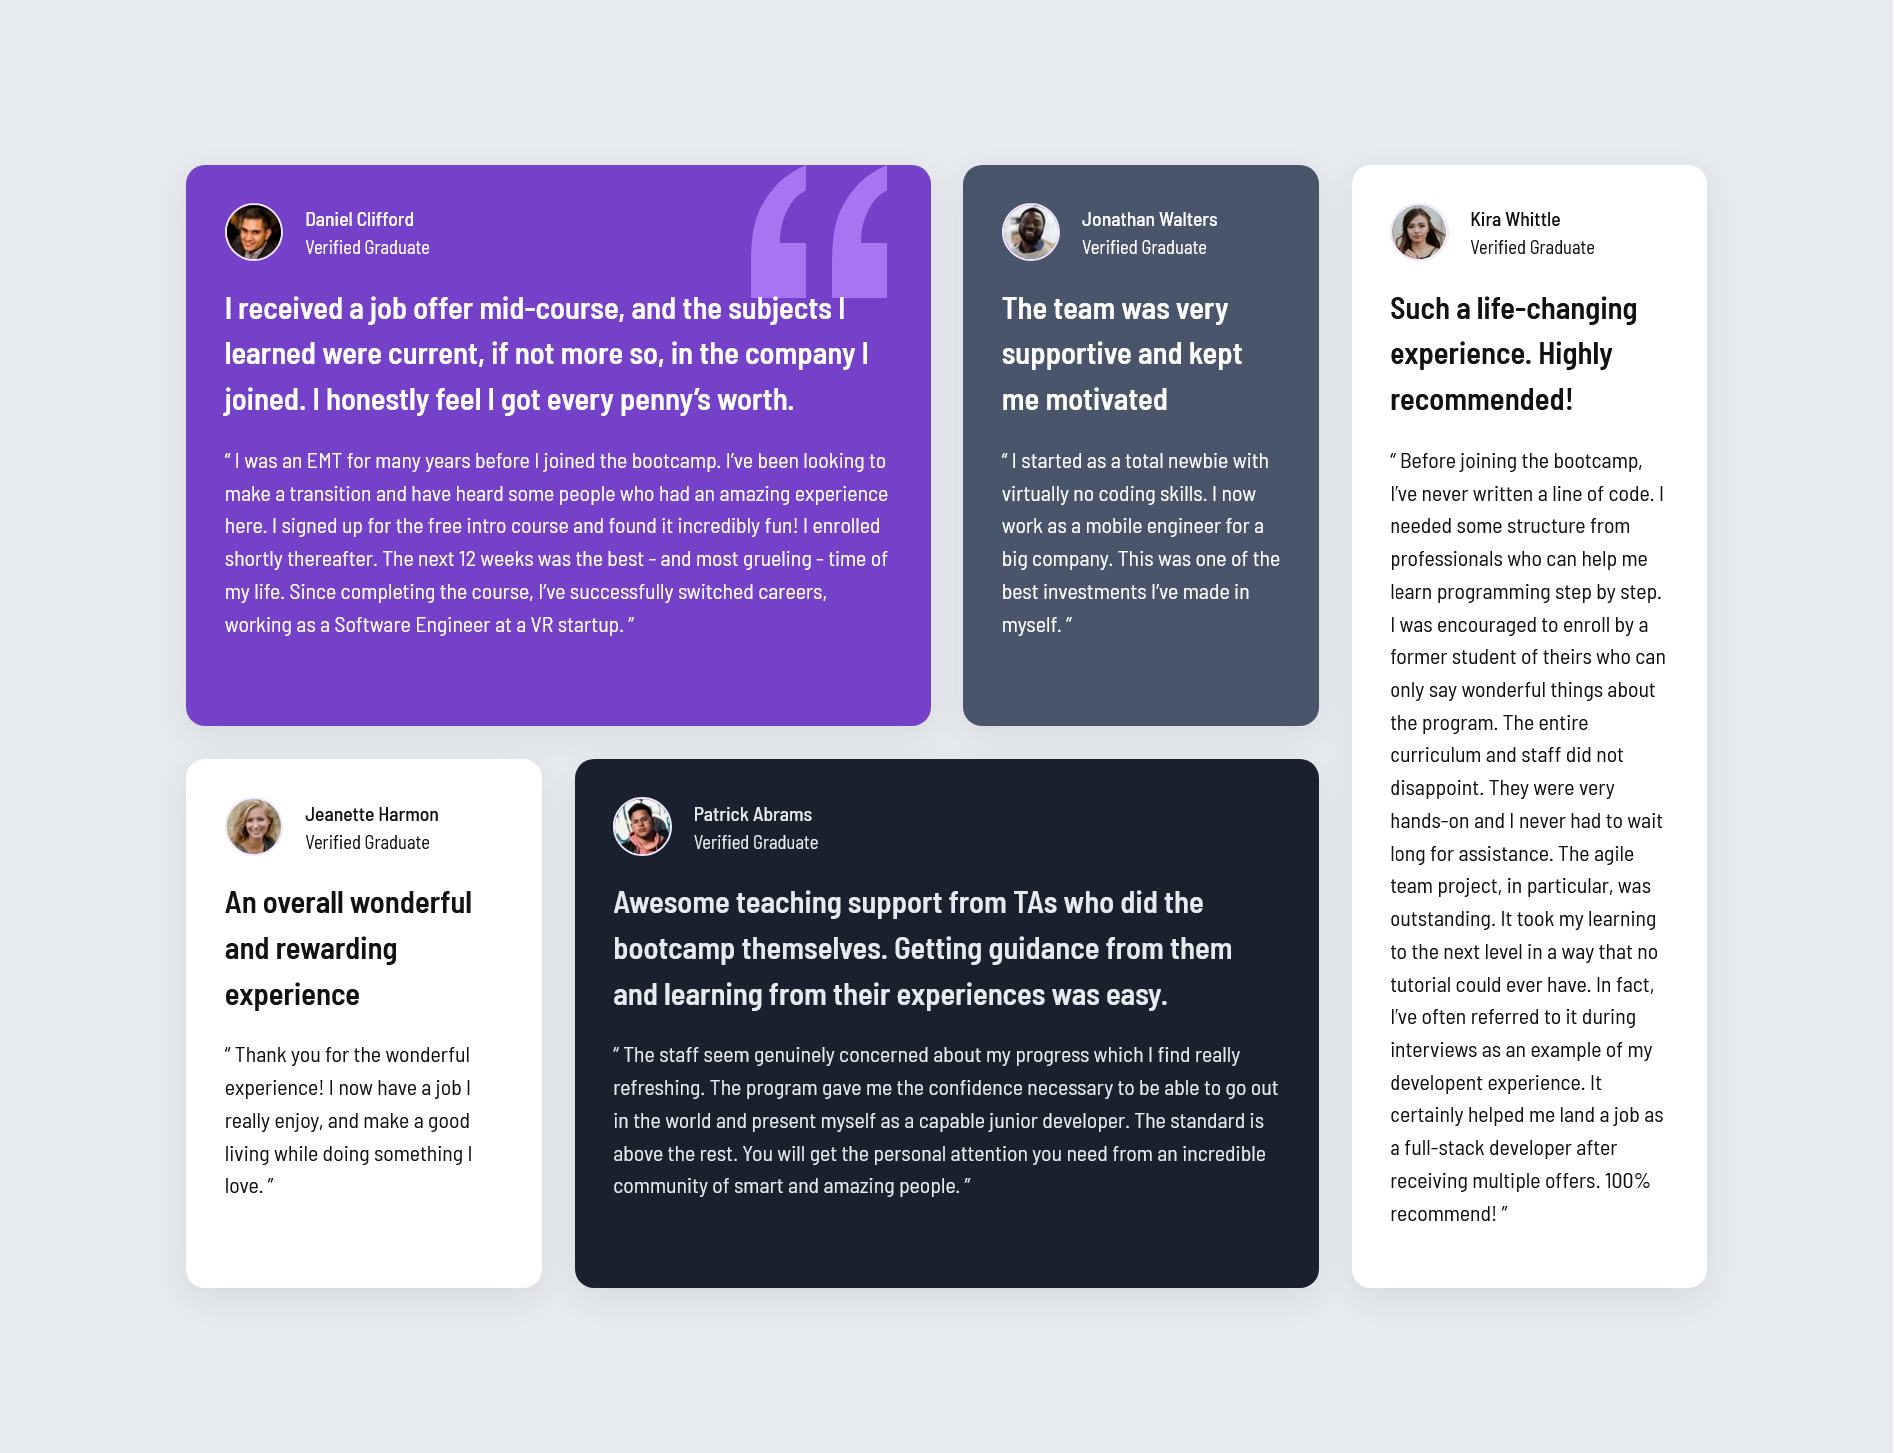
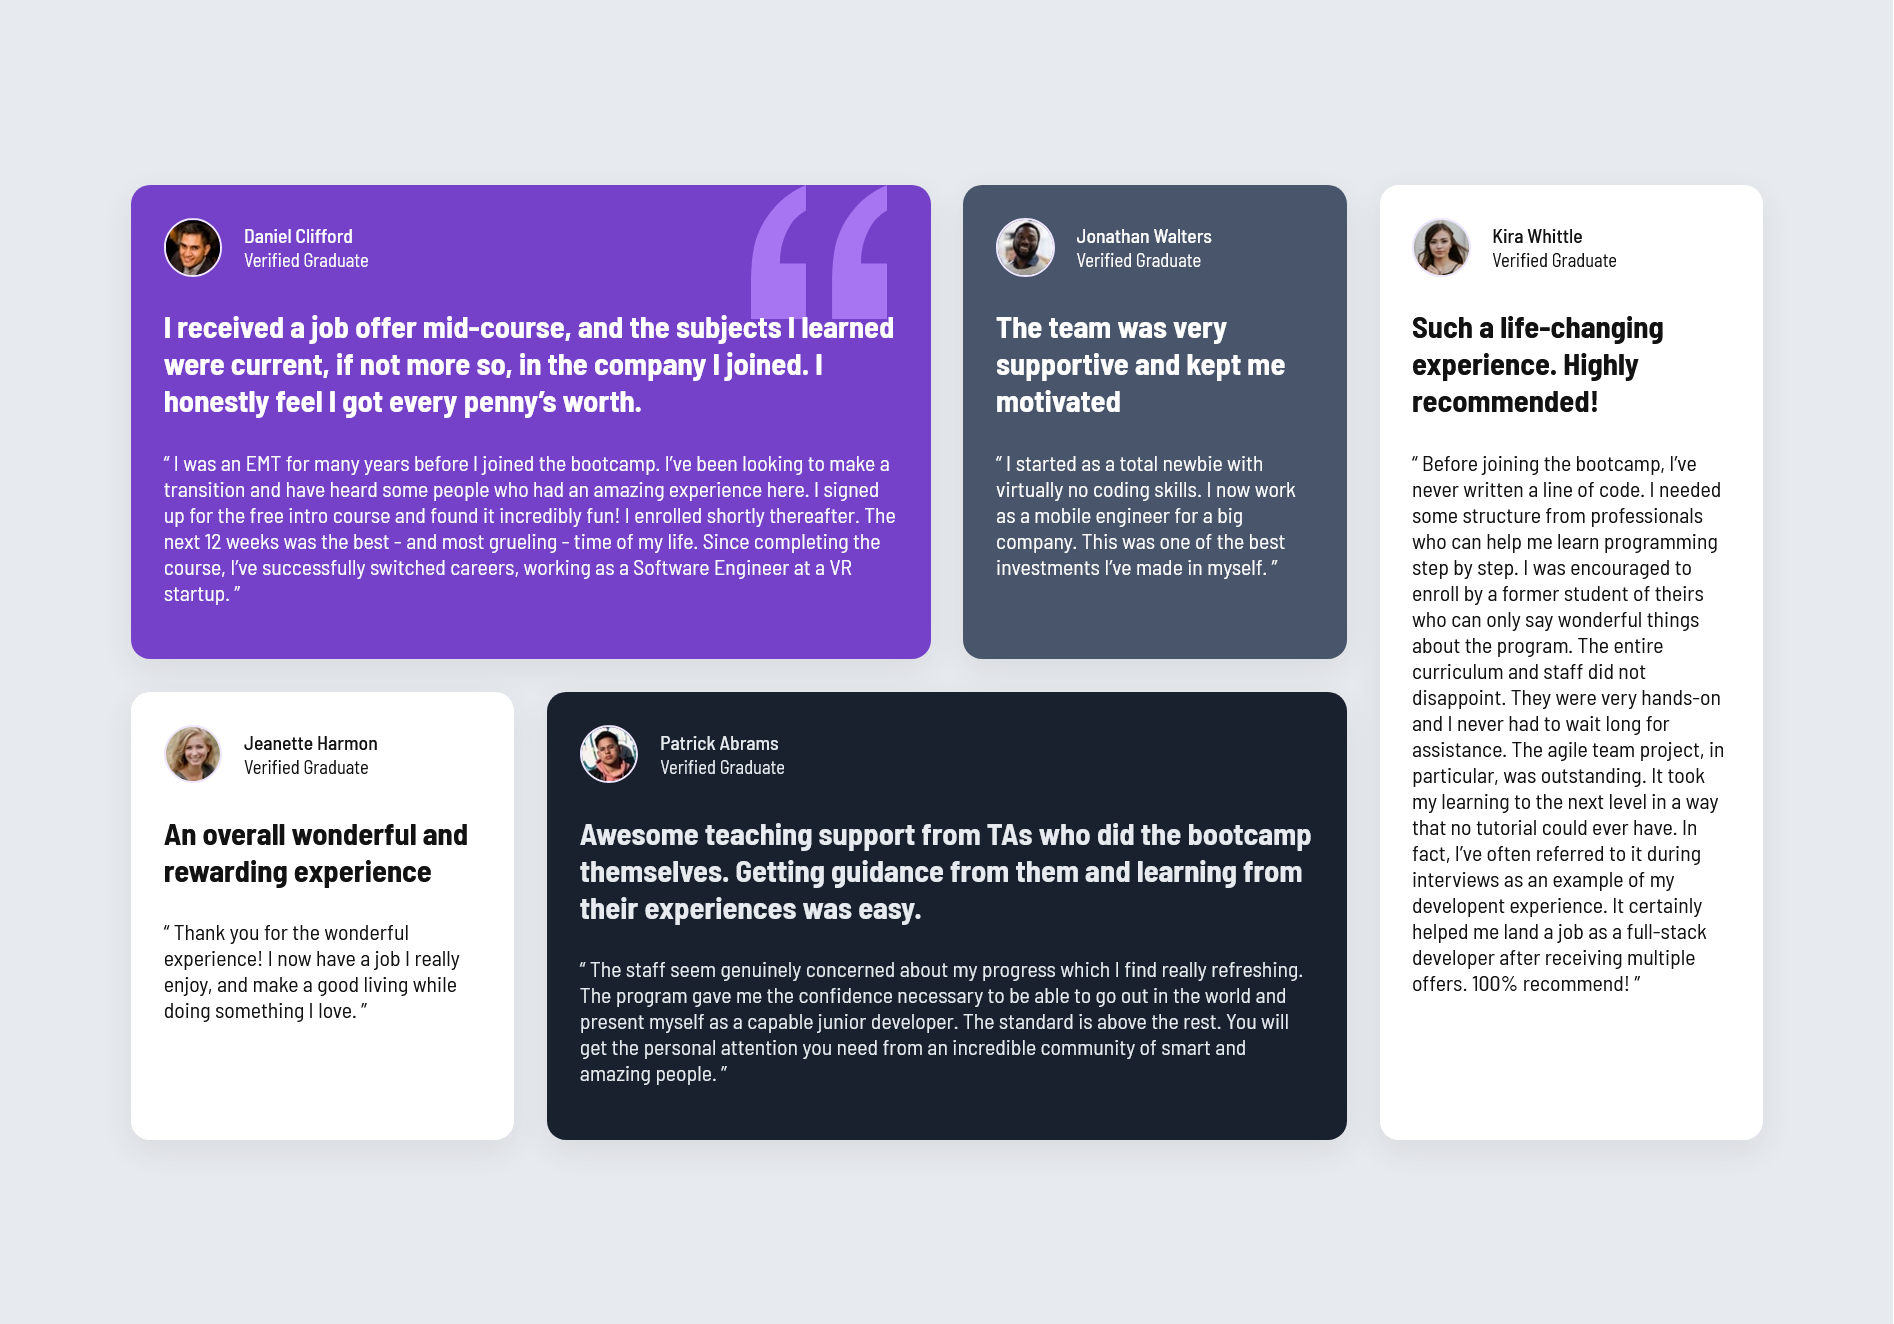
Update CSS

Changed region(s): [[0.0623, 0.0929, 0.9345, 0.898]]

diff --git a/testimonials-grid-section-main/index.css b/testimonials-grid-section-main/index.css
@@ -1,4 +1,4 @@
-@import url('https://fonts.googleapis.com/css2?family=Barlow+Semi+Condensed:wght@400;500;600&display=swap');
+@import url('https://fonts.googleapis.com/css2?family=Barlow+Semi+Condensed:ital,wght@0,100;0,200;0,300;0,400;0,500;0,600;0,700;0,800;0,900;1,100;1,200;1,300;1,400;1,500;1,600;1,700;1,800;1,900&display=swap');
 
 :root {
   --Purple-50: hsl(260, 100%, 95%);
@@ -8,50 +8,85 @@
   --Grey-500: hsl(217, 19%, 35%);
   --Dark-blue: hsl(219, 29%, 14%);
   --Black: hsl(0, 0%, 7%);
-}
+} 
 
 body {
-  background: var(--Grey-100);
+  background-color: var(--Grey-100);
   min-height: 100vh;
-  padding: clamp(2rem, 5vw, 5rem);
+  padding: 80px 40px;
   font-family: "Barlow Semi Condensed", sans-serif;
   overflow-x: hidden;
 }
 
 .container {
-  max-width: 1200px;
+  width: 100%;
   margin: 0 auto;
 }
 
-/* ---------- GRID LAYOUT ---------- */
 .testimonials-grid {
   display: grid;
   grid-template-columns: repeat(4, 1fr);
+  grid-template-rows: auto auto;
   gap: 24px;
-  padding: clamp(1rem, 3vw, 3rem);
+  align-items: stretch;
+  padding: 48px;
+  max-width: 1200px;
+  margin: 0 auto;
 }
 
 .card {
   border-radius: 14px;
   box-shadow: 0 8px 24px rgba(60, 72, 82, 0.09);
-  padding: clamp(1rem, 2vw, 2rem);
-  line-height: 1.5;
+  padding: 24px;
 }
 
 .card h3 {
-  font-size: clamp(1.4rem, 1vw + 0.9rem, 1.4rem);
-  margin: 1rem 0;
+  font-size: clamp(1.4rem, 1vw + 0.8rem, 1.4rem);
 }
 
-.card p {
-  font-size: clamp(1rem, 0.4vw + 0.7rem, 1rem);
+.card1 {
+  grid-column: 1 / span 2;
+  grid-row: 1 / 2;
+  background: var(--Purple-500);
+  background-image: url(./images/bg-pattern-quotation.svg);
+  background-repeat: no-repeat;
+  background-position: top right 32px;
+  background-size: 100px;
+  color: var(--White);
 }
 
-/* ---------- PROFILE SECTION ---------- */
+.card2 {
+  grid-column: 3 / 4;
+  grid-row: 1 / 2;
+  background: var(--Grey-500);
+  color: var(--White);
+}
+
+.card3 {
+  grid-column: 1 / 2;
+  grid-row: 2 / 3;
+  background: var(--White);
+  color: var(--Black);
+}
+
+.card4 {
+  grid-column: 2 / 4;
+  grid-row: 2 / 3;
+  background: var(--Dark-blue);
+  color: var(--Grey-100);
+}
+
+.card5 {
+  grid-column: 4 / 5;
+  grid-row: 1 / 3;
+  background: var(--White);
+  color: var(--Black);
+  box-shadow: 0 8px 24px rgba(60, 72, 82, 0.09);
+}
+
 .profile {
   display: flex;
   align-items: center;
-  gap: 1rem;
 }
 
 .profile img {
@@ -62,65 +97,59 @@ body {
 }
 
 .profile div {
+  padding-left: 16px;
   font-weight: 500;
   font-size: clamp(0.75rem, 0.3vw + 0.7rem, 0.9rem);
 }
 
-.profile span {
-  display: block;
+.profile div span {
   font-size: clamp(0.7rem, 0.3vw + 0.65rem, 0.85rem);
   font-weight: 400;
 }
 
-/* ---------- CARD COLORS & GRID POSITIONS ---------- */
-.card1 {
-  grid-column: 1 / span 2;
-  background: var(--Purple-500) url(./images/bg-pattern-quotation.svg) no-repeat top right 32px / 100px;
-  color: var(--White);
+.testimonials p {
+  font-size: clamp(0.8rem, 0.4vw + 0.7rem, 1rem);
+  font-size: 13px;
+  line-height: 1.5;
 }
 
-.card2 {
-  grid-column: 3 / 4;
-  background: var(--Grey-500);
-  color: var(--White);
-}
-
-.card3 {
-  grid-column: 1 / 2;
-  background: var(--White);
-  color: var(--Black);
-}
-
-.card4 {
-  grid-column: 2 / 4;
-  background: var(--Dark-blue);
-  color: var(--Grey-100);
-}
-
-.card5 {
-  grid-column: 4 / 5;
-  grid-row: 1 / 3;
-  background: var(--White);
-  color: var(--Black);
-}
-
-/* ---------- RESPONSIVE (MOBILE) ---------- */
 @media (max-width: 768px) {
   body {
-    padding: clamp(1rem, 3vw, 2rem);
+    padding: clamp(0.5rem, 2vw, 1rem);
+    overflow-x: hidden;
+    background: var(--Grey-100);
+  }
+
+  .container {
+    width: 100%;
+    max-width: 100vw;
+    padding: 0;
+    margin: 0 auto;
   }
 
   .testimonials-grid {
     display: flex;
     flex-direction: column;
     align-items: center;
-    padding: 0;
+    width: 100%;
     gap: clamp(1rem, 2vw, 2rem);
+    padding: 0;
+    margin: 0;
+    box-sizing: border-box;
   }
 
-  .card {
+  .card,
+  .card1,
+  .card2,
+  .card3,
+  .card4,
+  .card5 {
+    max-width: 320px !important;
     width: 100%;
-    max-width: 300px !important;
+    min-width: 0;
+    margin: 0 auto;
+    box-sizing: border-box;
+    border-radius: 14px;
   }
 
   .card1 {
